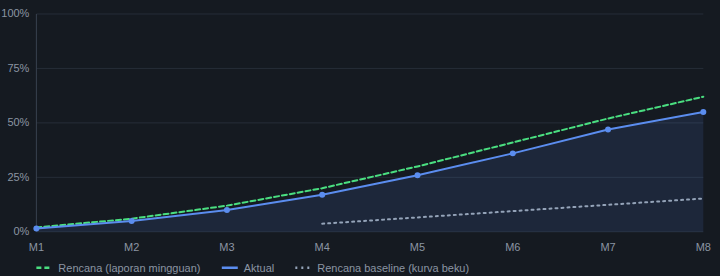
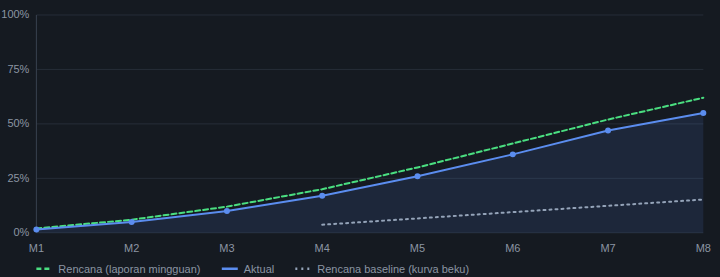
charts: garis kisi dijangkarkan pada tepi sumbu ketika pemanggil memaksa KEDUANYA — tren harga kehilangan garis kelima dan kedua label tepinya untuk hampir setiap riwayat harga sungguhan (terukur 205 deret: 5 garis pada 21,5 %, 161 sumbu tanpa label tepi → 100 % dan 0), dan syarat 'lima garis' S20e 

diff --git a/public/app/js/charts.js b/public/app/js/charts.js
@@ -355,10 +355,21 @@ function domain(values, min, max, tickCount = 4, fixedStep) {
     else hi = 0;
   }
   const step = finite(fixedStep) > 0 ? finite(fixedStep) : niceStep((hi - lo) / tickCount);
+  const bothForced = finite(min) !== null && finite(max) !== null;
   if (finite(min) === null) lo = Math.floor(lo / step + 1e-9) * step;
   if (finite(max) === null) hi = Math.ceil(hi / step - 1e-9) * step;
+  /* Jangkar garis kisi. Bila pemanggil memaksa KEDUA tepinya, tepi itulah
+     jangkarnya: sumbu yang dipaksa 50..350 dengan langkah 75 harus digaris di
+     50/125/200/275/350 — lima garis yang membentang penuh — bukan di
+     75/150/225/300, yang membuang label lantai DAN label langit-langit.
+     Terukur pada tren harga satuan (yMin/yMax/yStep ketiganya dipaksa): 5 garis
+     kisi hanya pada ~6 % pasangan harga, dan demo lolos cuma karena kedua
+     harganya sama (verifikasi P1-E). Bila salah satu tepi dihitung sendiri,
+     jangkarnya tetap kelipatan langkah — di sanalah "langkah rapi" berarti
+     "angka rapi". */
   const ticks = [];
-  for (let v = Math.ceil(lo / step - 1e-9) * step; v <= hi + step * 1e-6; v += step) ticks.push(Math.abs(v) < step * 1e-9 ? 0 : +v.toPrecision(12));
+  const first = bothForced ? lo : Math.ceil(lo / step - 1e-9) * step;
+  for (let v = first; v <= hi + step * 1e-6; v += step) ticks.push(Math.abs(v) < step * 1e-9 ? 0 : +v.toPrecision(12));
   return { lo, hi, ticks };
 }
 

diff --git a/public/app/js/views/hargasatuan.js b/public/app/js/views/hargasatuan.js
@@ -91,7 +91,13 @@ function trendChart(series) {
     }],
     yMin: yLo,
     yMax: yHi,
-    // Lima garis kisi, seperti grafik tangan (i = 0..4).
+    /* Lima garis kisi, seperti grafik tangan (i = 0..4) — dan itu benar HANYA
+       karena charts.js menjangkarkan tick pada `lo` ketika KEDUA tepi sumbu
+       dipaksa. Sampai verifikasi P1-E ia menjangkarkannya pada kelipatan
+       langkah, jadi kalimat ini salah untuk hampir setiap riwayat harga
+       sungguhan: terukur atas 205 deret harga, 5 garis pada 21,5 % kasus dan
+       161 sumbu tanpa label lantai maupun langit-langit. Item demo lolos hanya
+       karena kedua harganya sama. */
     yStep: (yHi - yLo) / 4,
     yFormat: (value) => fmt.rupiahShort(value),
     ariaLabel: 'Tren harga satuan',

diff --git a/docs/bukti-uji/harness-playwright.py b/docs/bukti-uji/harness-playwright.py
@@ -1697,6 +1697,41 @@ def s20e(pg):
     pg.evaluate("() => { delete document.documentElement.dataset.theme; }")
 
     # ---- daftar fitur yang TIDAK boleh hilang, dinyatakan sebagai syarat ----
+    # Sumbu tren harga atas deret harga yang BERGERAK — data demo punya dua
+    # harga yang sama, dan itulah satu-satunya bentuk yang lolos aturan lama.
+    # Digambar dengan lineChart yang dikapalkan, memakai rumus yLo/yHi/yStep
+    # milik hargasatuan.js sendiri, di halaman yang sedang diuji.
+    trend_axis = pg.evaluate("""async () => {
+      const m = await import("/app/js/charts.js");
+      const host = document.createElement("div");
+      document.body.appendChild(host);
+      const axisOf = (prices) => {
+        const lo = Math.min(...prices), hi = Math.max(...prices);
+        const room = (hi - lo) * 0.25 || hi * 0.05 || 1;
+        const yLo = Math.max(0, lo - room), yHi = hi + room;
+        host.replaceChildren(m.lineChart({
+          series: [{ label: "Harga", points: prices.map((v, i) => ({ x: i, y: v })) }],
+          width: 1112, height: 260, legend: false,
+          yMin: yLo, yMax: yHi, yStep: (yHi - yLo) / 4, yFormat: (v) => String(Math.round(v)),
+        }));
+        const ticks = [...host.querySelectorAll("text.chart-tick")]
+          .filter((t) => t.getAttribute("text-anchor") === "end")
+          .map((t) => parseFloat(t.textContent));
+        return { ticks, yLo, yHi };
+      };
+      const rising = axisOf([12500, 18750, 31000]);
+      const near = (a, b) => Math.abs(a - b) <= Math.max(1, Math.abs(b) * 1e-6);
+      host.remove();
+      return {
+        rising_ticks: rising.ticks,
+        rising_gridlines: rising.ticks.length,
+        edges_labelled: rising.ticks.length > 1
+          && near(rising.ticks[0], Math.round(rising.yLo))
+          && near(rising.ticks[rising.ticks.length - 1], Math.round(rising.yHi)),
+      };
+    }""")
+    out["trend_axis_rising"] = trend_axis
+
     checks = {
         # Ketiganya benar-benar digambar charts.js, bukan sisa SVG tangan.
         "all_are_chart_lib": all(c["lib"] for c in (scurve, evm, trend)),
@@ -1724,6 +1759,19 @@ def s20e(pg):
         # Tren harga: sumbu TIDAK mulai dari nol.
         "trend_axis_not_zero_based": trend["ticks"] and not trend["ticks"][0].strip().endswith(" 0"),
         "trend_five_gridlines": len([t for t in trend["ticks"] if t.startswith("Rp")]) == 5,
+        # …dan garis kisi itu benar-benar MEMBENTANG plotnya: label pertama =
+        # lantai sumbu, label terakhir = langit-langitnya.
+        #
+        # Menghitung lima saja tidak cukup, dan buktinya ada di data demo
+        # sendiri: kedua harga item demo SAMA (Rp 62.000), dan pada kasus
+        # berimpit itu lo/step kebetulan bulat untuk harga BERAPA pun — jadi
+        # syarat lama hijau di sini sementara sumbu harga yang sungguhan
+        # kehilangan garis kelima DAN kedua label tepinya (terukur atas 205
+        # deret harga: 5 garis pada 21,5 % kasus, 161 sumbu tanpa label tepi;
+        # sesudah perbaikan 100 % dan 0). Yang di bawah ini diukur pada deret
+        # harga NAIK yang digambar di halaman ini juga.
+        "trend_axis_edges_are_labelled": trend_axis["edges_labelled"],
+        "trend_rising_prices_keep_five_gridlines": trend_axis["rising_gridlines"] == 5,
         # PO vs GRN dibedakan per TITIK, bukan per seri.
         "trend_one_series": len(trend["series"]) == 1,
         "trend_point_tokens_differ": len(trend["point_tokens"]) >= 2,
